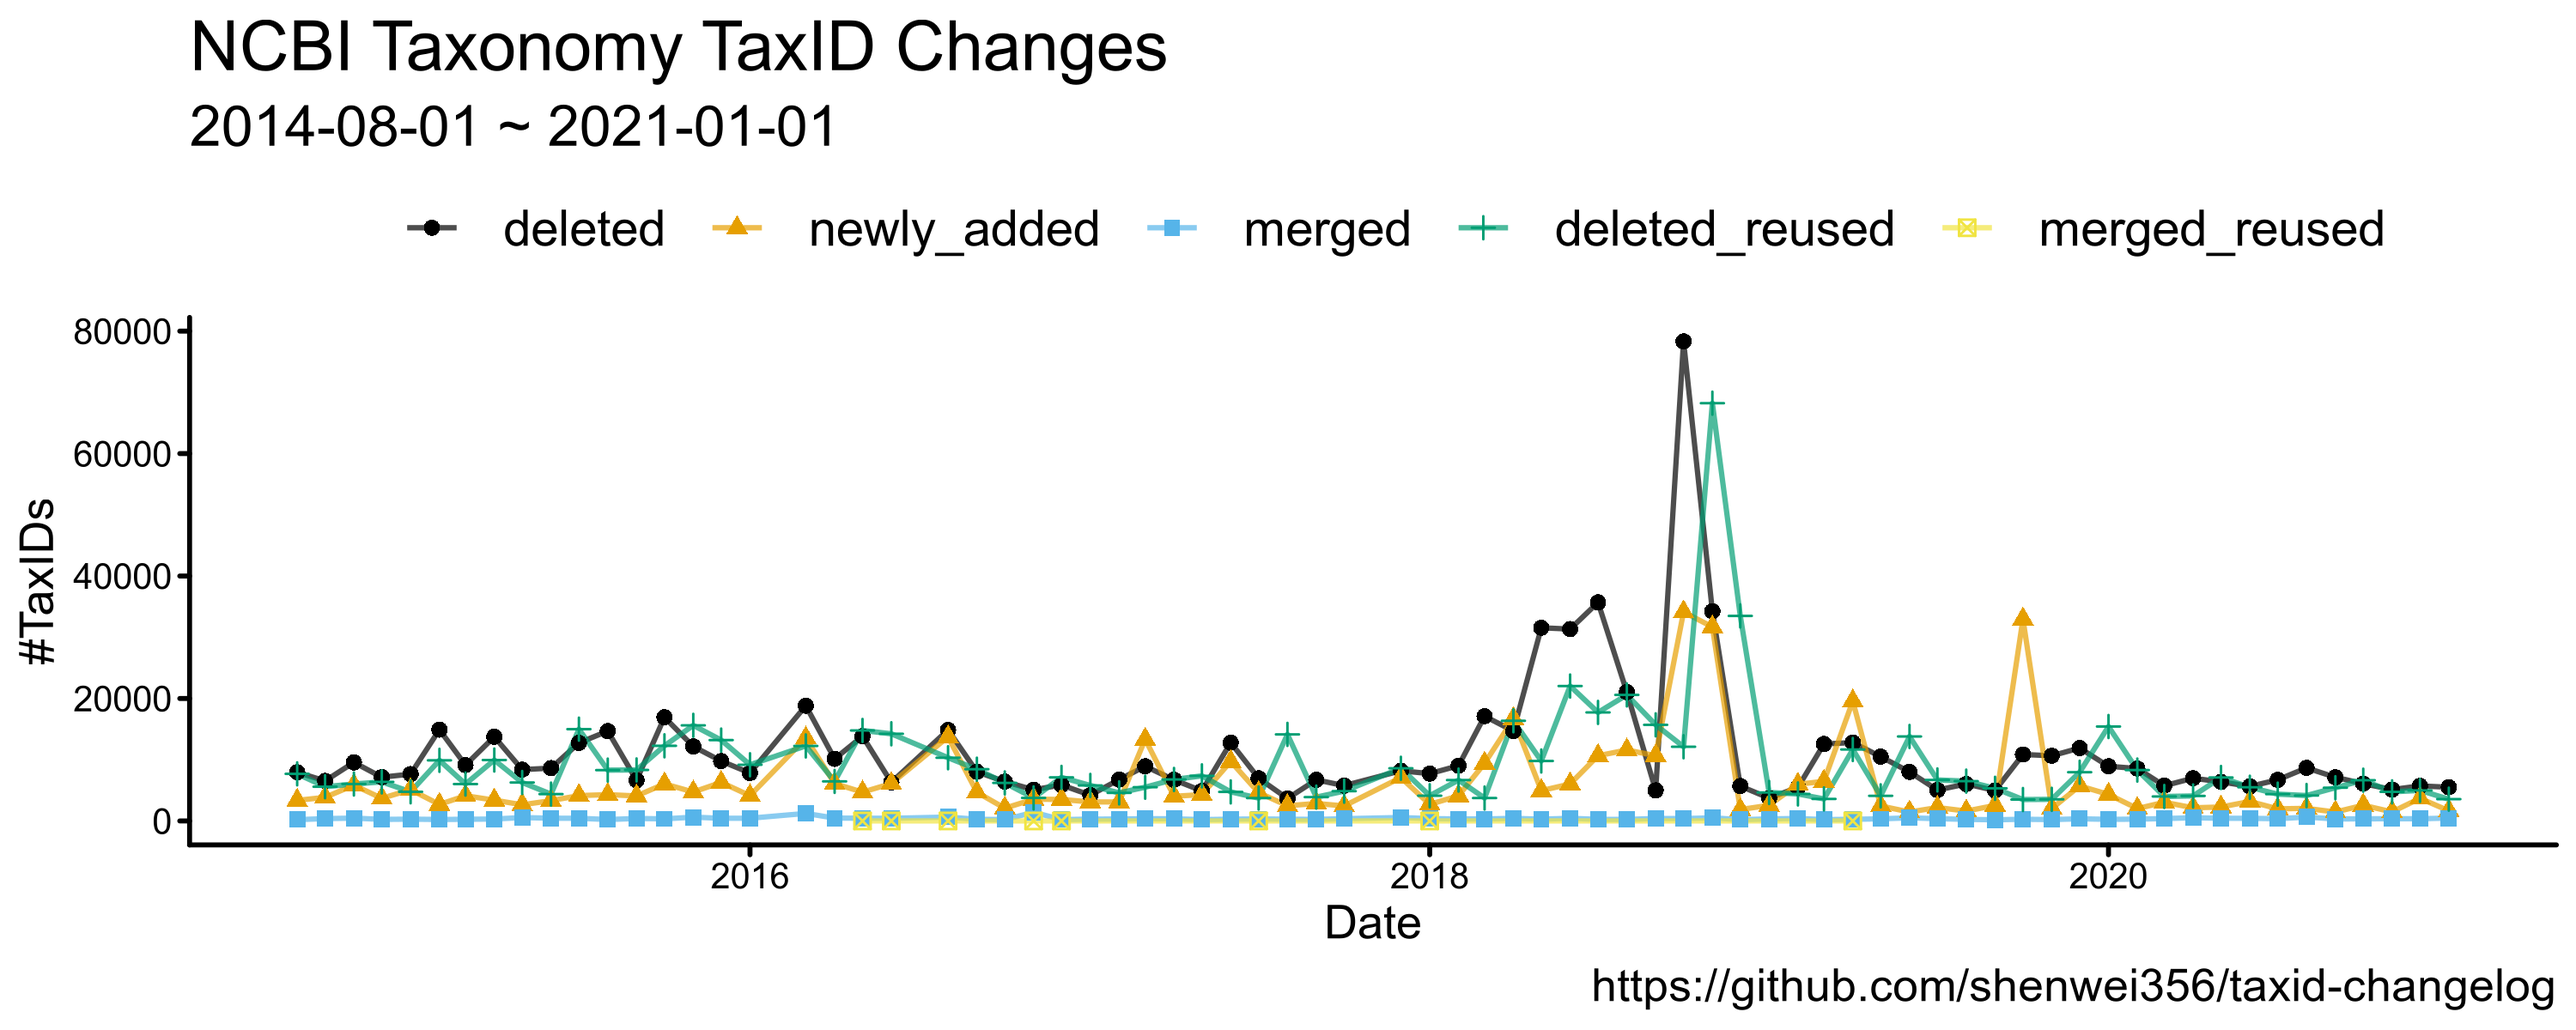
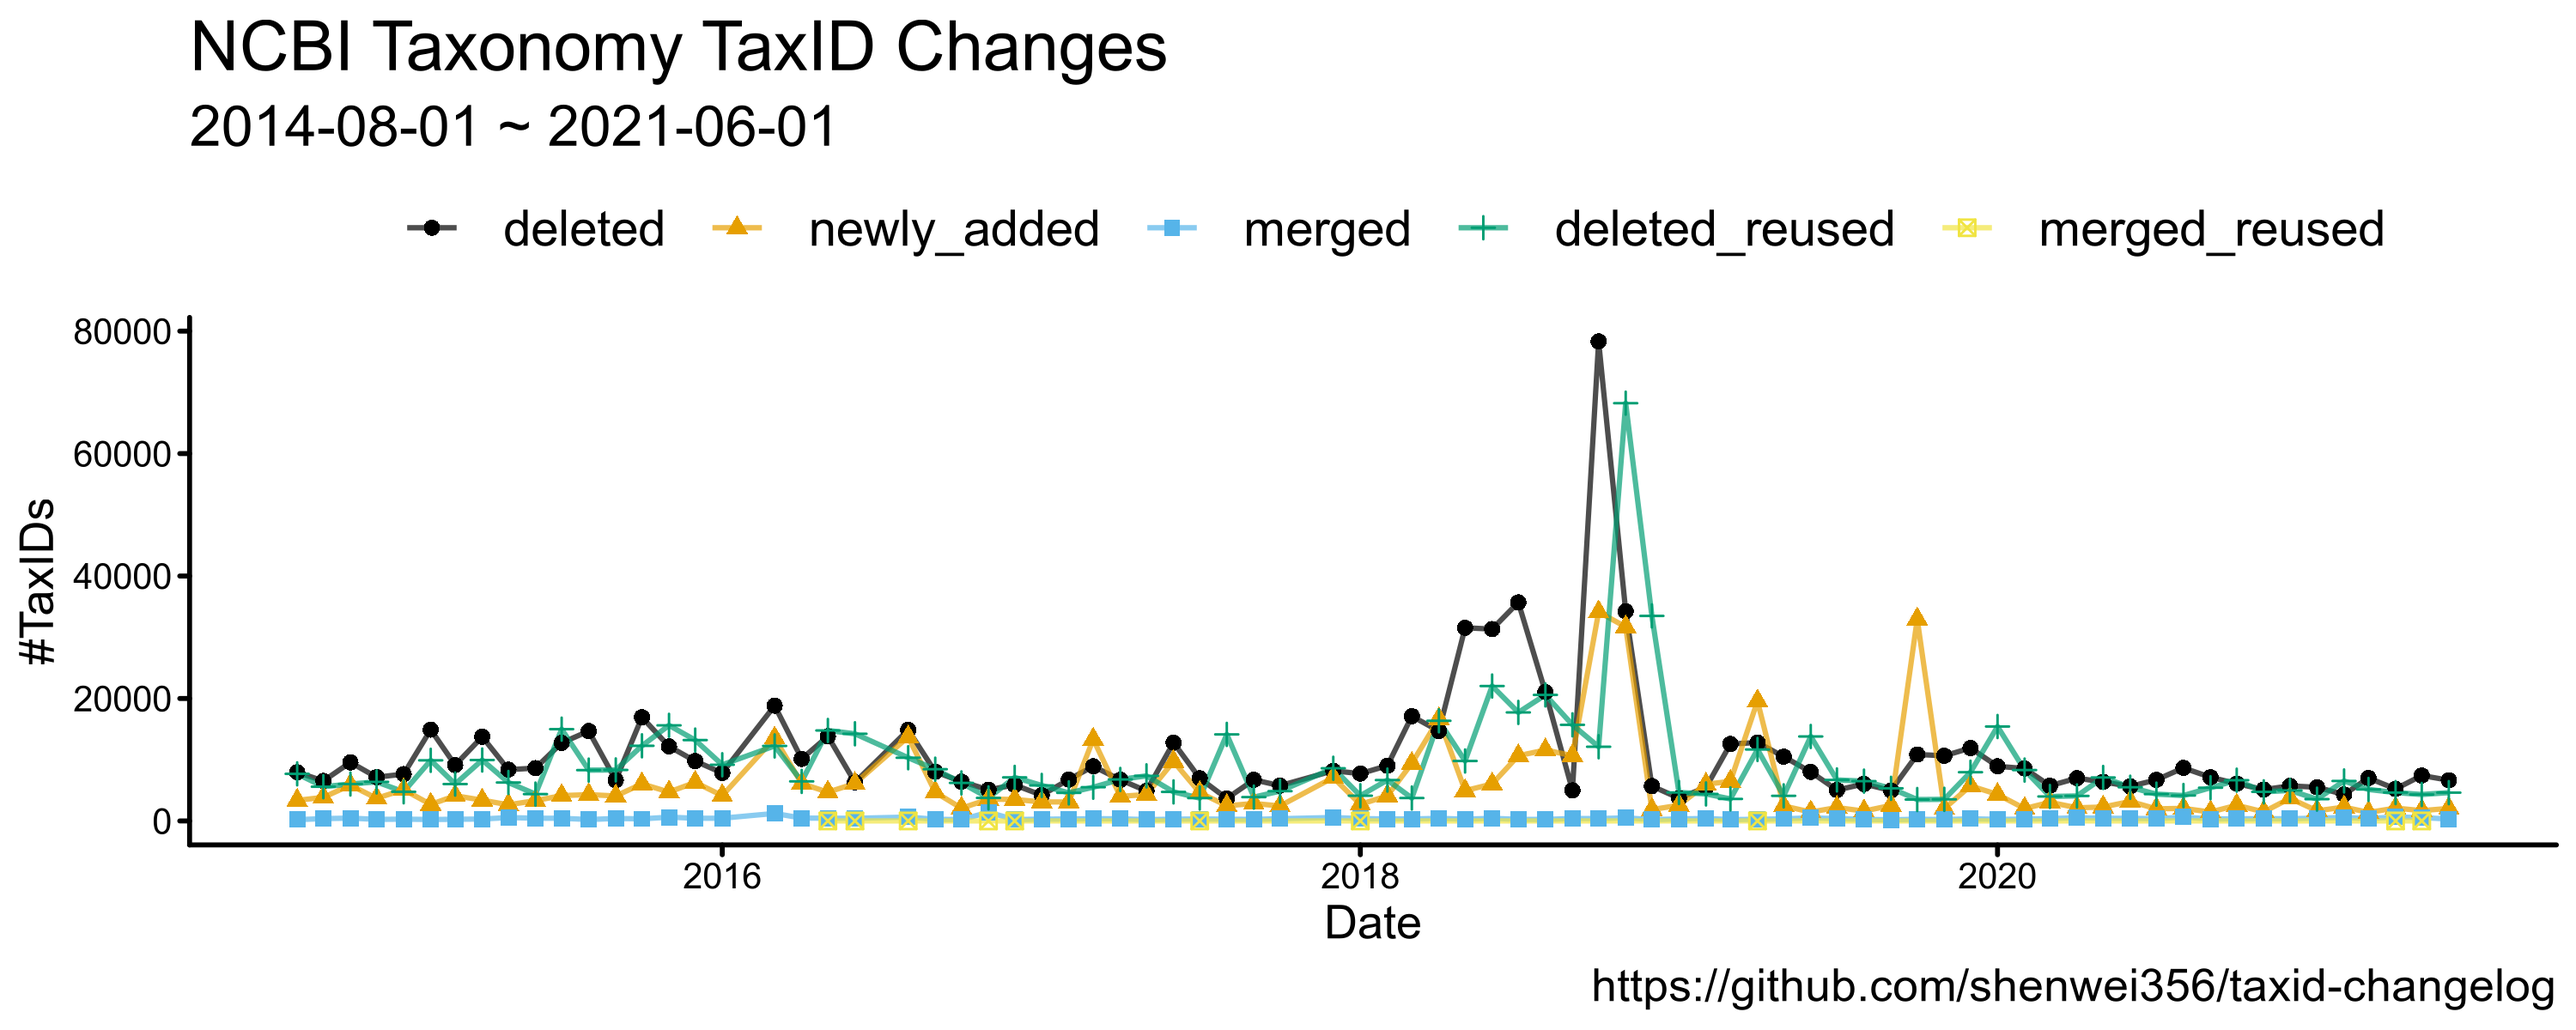
v2021.06

diff --git a/README.md b/README.md
@@ -242,6 +242,9 @@ Stats:
     2021-01-01   5506      1661          472      3561             
     2021-02-01   4320      2260          559      6528             
     2021-03-01   7015      1395          400      5145
+    2021-04-01   5230      2101          650      4633             1
+    2021-05-01   7419      1687          549      4324             2
+    2021-06-01   6654      2052          321      4623 
     
 [The paper of NCBI Taxonomy database](https://www.ncbi.nlm.nih.gov/pmc/articles/PMC3245000/):
 
